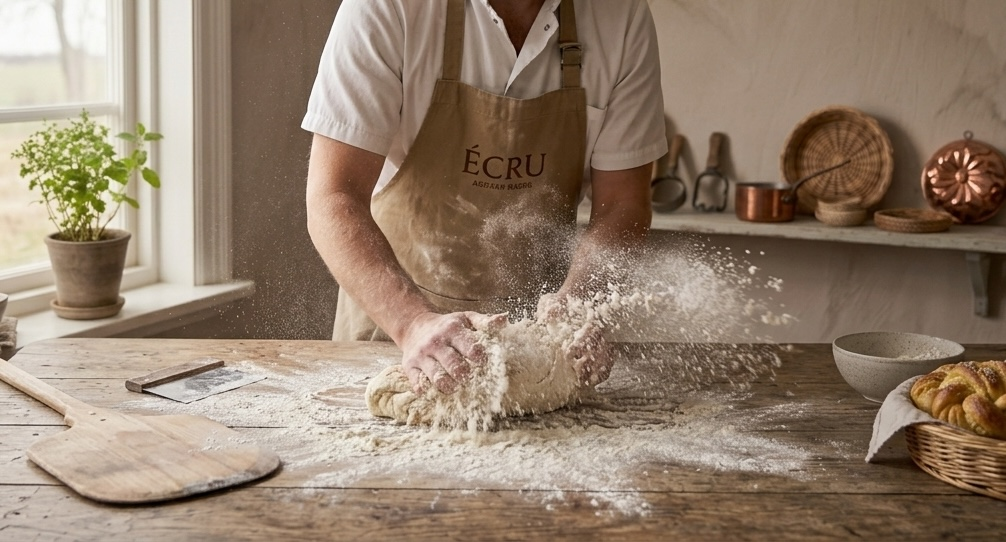
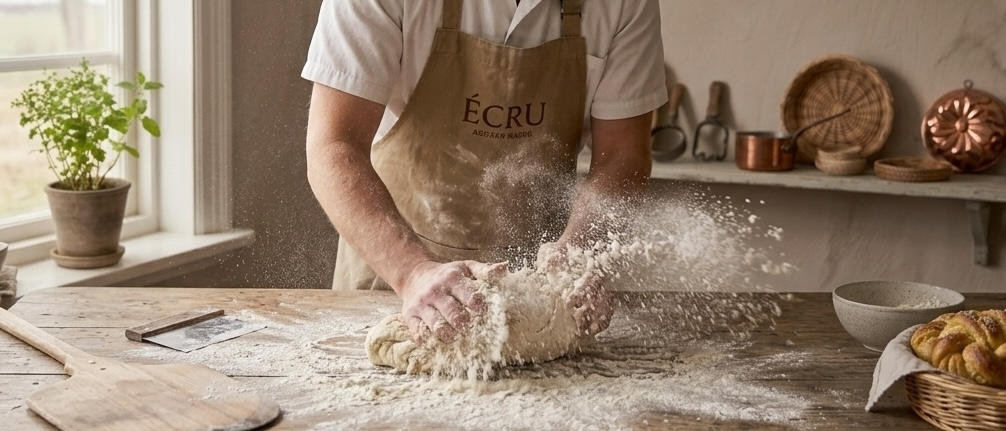
Stylade introsektionen på startsidan

diff --git a/css/style.css b/css/style.css
@@ -115,3 +115,29 @@ header {
 .hero-button:hover {
     background-color: lch(15.88% 7.66 53.42);
 }
+
+.intro-section {
+    display: flex;
+    flex-direction: column;
+    padding: 2rem 0;
+}
+
+.intro-text {
+    padding: 0 1.25rem;
+}
+
+.intro-text h2 {
+    margin-top: 0;
+    margin-bottom: 1rem;
+}
+
+.intro-text p {
+    margin-top: 0;
+    margin-bottom: 1rem;
+}
+
+.intro-image img {
+    display: block;
+    width: 100%;
+    height: auto;
+}
